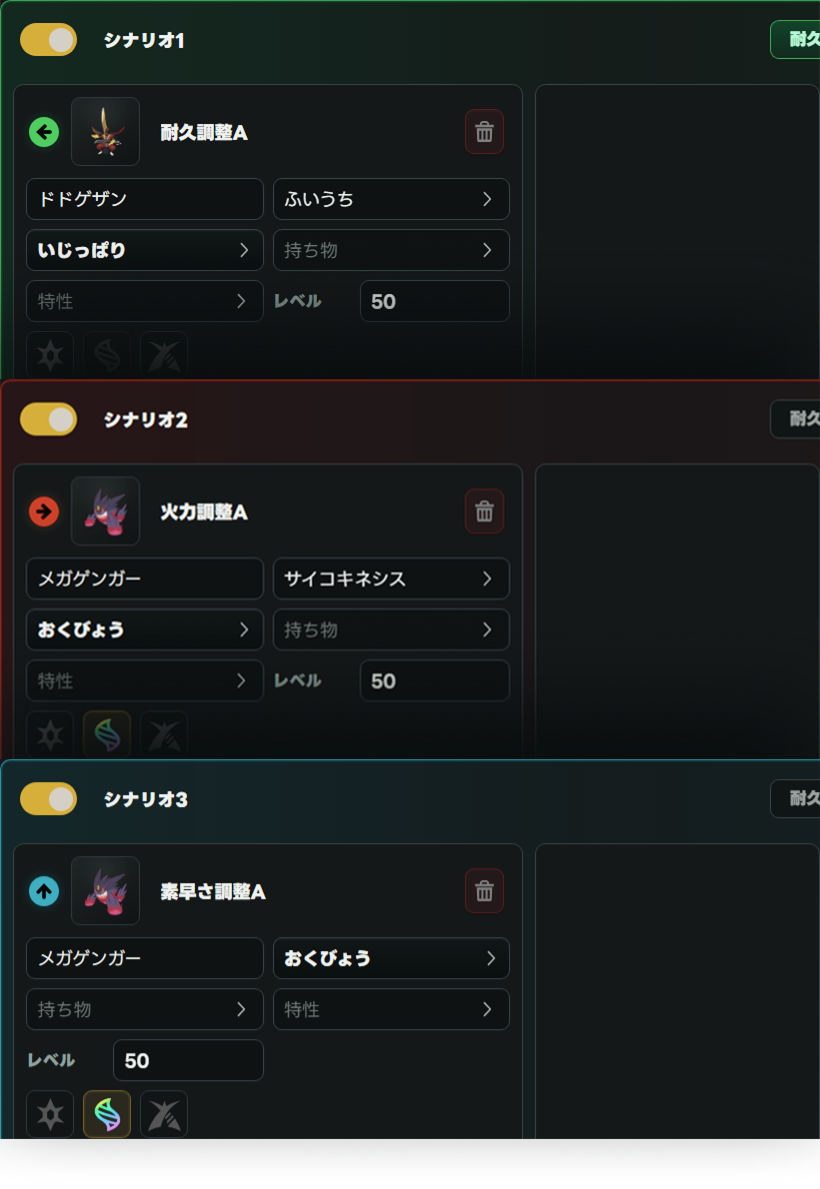
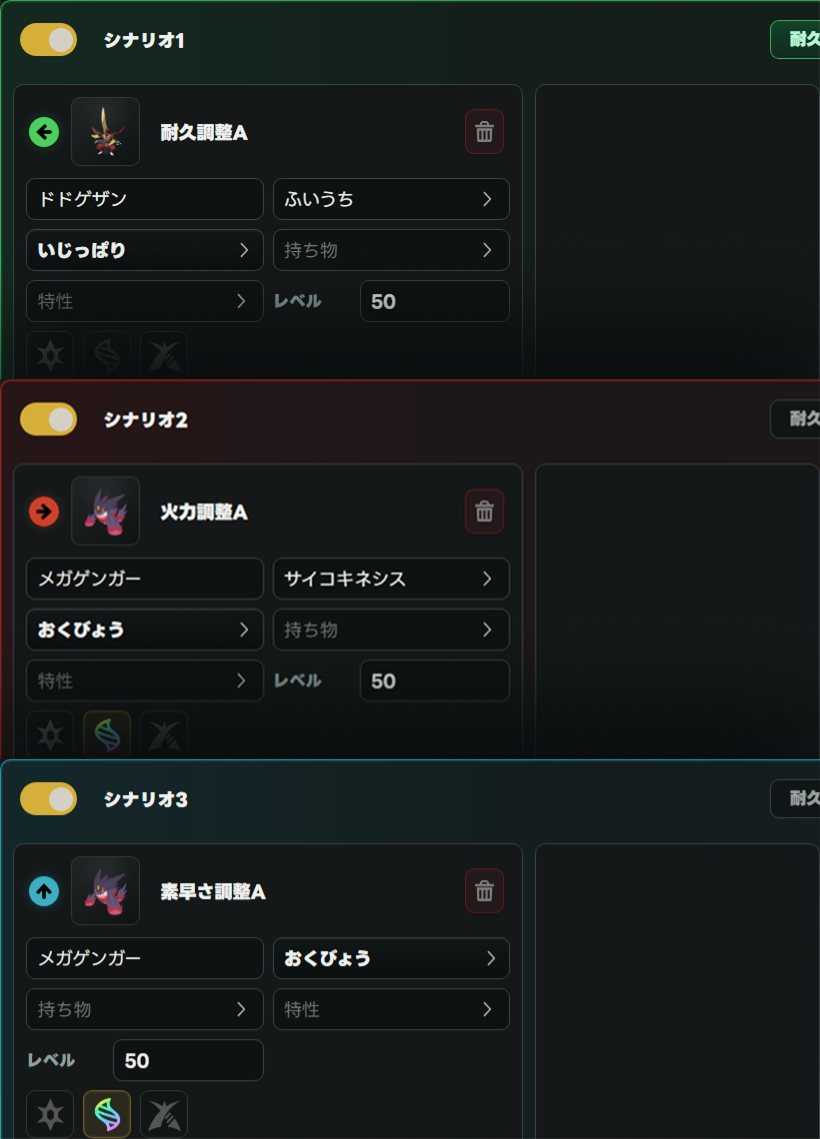
feat: メインとガイドのフッターへGitHubリンクを追加

diff --git a/src/App.test.tsx b/src/App.test.tsx
@@ -140,6 +140,29 @@ describe("App", () => {
     ]);
   });
 
+  it("publishes matching GitHub footer links on the app and guide", () => {
+    const appFooter = renderExampleApp().match(/<footer class="app-footer"[\s\S]*?<\/footer>/)?.[0] ?? "";
+    const guideHtml = readFileSync(new URL("../guide/index.html", import.meta.url), "utf8");
+    const guideFooter = guideHtml.match(/<footer class="app-footer"[\s\S]*?<\/footer>/)?.[0] ?? "";
+    const githubIcon = readFileSync(
+      new URL("../public/assets/social/github-invertocat-white.svg", import.meta.url),
+      "utf8",
+    );
+
+    for (const footer of [appFooter, guideFooter]) {
+      expect(footer).toContain('aria-label="フッターリンク"');
+      expect(footer).toContain('href="https://github.com/suisui-swimmy/ChampionCreator"');
+      expect(footer).toContain('aria-label="ChampionCreator GitHub リポジトリ"');
+      expect(footer).toContain("assets/social/github-invertocat-white.svg");
+      expect(footer.indexOf("不具合報告")).toBeLessThan(footer.indexOf("お問い合わせ"));
+      expect(footer.indexOf("お問い合わせ")).toBeLessThan(footer.indexOf("https://github.com/suisui-swimmy/ChampionCreator"));
+      expect(footer.match(/ \| /g)).toHaveLength(2);
+    }
+
+    expect(githubIcon).toContain('<svg width="98" height="96"');
+    expect(githubIcon).toContain('fill="white"');
+  });
+
   it("publishes a static, indexable guide with a responsive real-calculation tutorial", () => {
     const guideHtml = readFileSync(new URL("../guide/index.html", import.meta.url), "utf8");
     const guideCss = readFileSync(new URL("./guide/guide.css", import.meta.url), "utf8");
@@ -216,7 +239,7 @@ describe("App", () => {
     const guideScenarioRowImage = readFileSync(new URL("../public/assets/guide/scenario-row-addition.png", import.meta.url));
     expect(guideScenarioRowImage.subarray(1, 4).toString("ascii")).toBe("PNG");
     expect(guideScenarioRowImage.readUInt32BE(16)).toBe(820);
-    expect(guideScenarioRowImage.readUInt32BE(20)).toBe(1189);
+    expect(guideScenarioRowImage.readUInt32BE(20)).toBe(1139);
     const guideTipIcon = readFileSync(new URL("../public/assets/guide/lightbulb.svg", import.meta.url), "utf8");
     expect(guideTipIcon).toContain("<svg");
     expect(guideTipIcon).toContain('stroke="#00FF72"');
@@ -295,6 +318,9 @@ describe("App", () => {
     expect(guideHtml).toContain('class="app-footer"');
     expect(guideHtml).toContain("不具合報告");
     expect(guideHtml).toContain('aria-label="お問い合わせ: X @peixe0307"');
+    expect(guideHtml).toContain('href="https://github.com/suisui-swimmy/ChampionCreator"');
+    expect(guideHtml).toContain('aria-label="ChampionCreator GitHub リポジトリ"');
+    expect(guideHtml).toContain('src="/assets/social/github-invertocat-white.svg"');
     expect(tutorialHtml).toContain("サンプル入力で計算してみよう");
     expect(getTutorialMessage("idle", false)).toBe("サンプル入力を確認したら、実際に「計算開始」を押してみよう。入力内容は自由に変更できます。");
     expect(getTutorialMessage("running", false)).toBe("アプリと同じ計算方法で全条件を評価しています。");
@@ -454,11 +480,14 @@ describe("App", () => {
     expect(html).not.toContain("ゲームフリーク に帰属します。");
     expect(html).toContain('href="https://docs.google.com/forms/d/e/1FAIpQLSdTUyrAmTwrcarMfMt56RrcwH_g4r4WhowW0i60HDK5BflylQ/viewform?usp=header"');
     expect(html).toContain('href="https://x.com/peixe0307"');
+    expect(html).toContain('href="https://github.com/suisui-swimmy/ChampionCreator"');
     expect(html).toContain("不具合報告");
     expect(html).toContain(" | ");
     expect(html).toContain("お問い合わせ");
     expect(html).not.toContain("不具合報告 / お問い合わせ");
     expect(html).toContain("assets/social/x-logo.svg");
+    expect(html).toContain('aria-label="ChampionCreator GitHub リポジトリ"');
+    expect(html).toContain("assets/social/github-invertocat-white.svg");
     expect(html).not.toContain("火力ライン結果");
     expect(html).not.toContain("pokemon-artwork-meta");
     expect(html).not.toContain("将来の詳細パネル用空き領域");

diff --git a/src/App.tsx b/src/App.tsx
@@ -1947,7 +1947,7 @@ export function App({
             本ツールは非公式のファンツールであり、画像、名称などに関する著作権は 任天堂 / クリーチャーズ / ゲームフリーク に帰属します
           </span>
         </div>
-        <div className="app-footer-links" aria-label="不具合報告とお問い合わせ">
+        <div className="app-footer-links" aria-label="フッターリンク">
           <a
             className="app-footer-contact"
             href="https://docs.google.com/forms/d/e/1FAIpQLSdTUyrAmTwrcarMfMt56RrcwH_g4r4WhowW0i60HDK5BflylQ/viewform?usp=header"
@@ -1966,6 +1966,16 @@ export function App({
           >
             <span>お問い合わせ</span>
             <img src={getAssetSrc("assets/social/x-logo.svg")} alt="X" />
+          </a>
+          <span aria-hidden="true"> | </span>
+          <a
+            className="app-footer-contact"
+            href="https://github.com/suisui-swimmy/ChampionCreator"
+            target="_blank"
+            rel="noreferrer"
+            aria-label="ChampionCreator GitHub リポジトリ"
+          >
+            <img src={getAssetSrc("assets/social/github-invertocat-white.svg")} alt="" />
           </a>
         </div>
       </footer> : null}

diff --git a/guide/index.html b/guide/index.html
@@ -339,7 +339,7 @@
           本ツールは非公式のファンツールであり、画像、名称などに関する著作権は 任天堂 / クリーチャーズ / ゲームフリーク に帰属します
         </span>
       </div>
-      <div class="app-footer-links" aria-label="不具合報告とお問い合わせ">
+      <div class="app-footer-links" aria-label="フッターリンク">
         <a
           class="app-footer-contact"
           href="https://docs.google.com/forms/d/e/1FAIpQLSdTUyrAmTwrcarMfMt56RrcwH_g4r4WhowW0i60HDK5BflylQ/viewform?usp=header"
@@ -356,6 +356,16 @@
         >
           <span>お問い合わせ</span>
           <img src="/assets/social/x-logo.svg" alt="X" />
+        </a>
+        <span aria-hidden="true"> | </span>
+        <a
+          class="app-footer-contact"
+          href="https://github.com/suisui-swimmy/ChampionCreator"
+          target="_blank"
+          rel="noreferrer"
+          aria-label="ChampionCreator GitHub リポジトリ"
+        >
+          <img src="/assets/social/github-invertocat-white.svg" alt="" />
         </a>
       </div>
     </footer>
